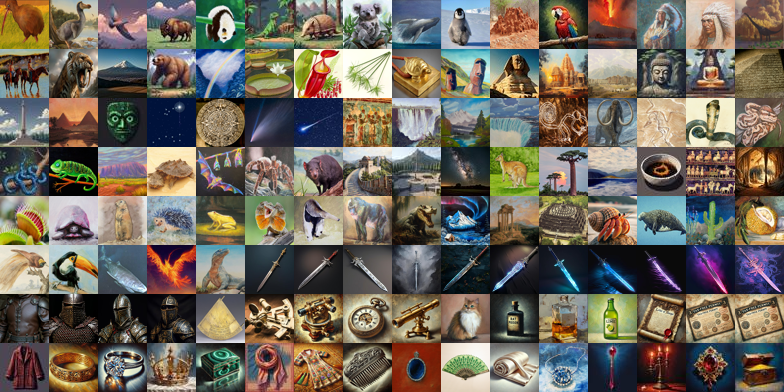
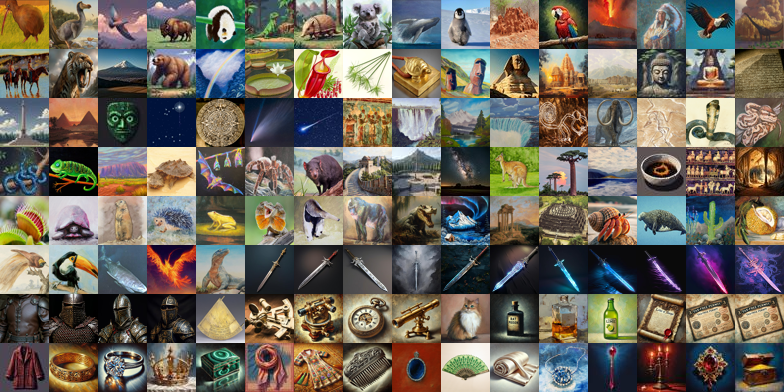
change Pteranodon to African Fish Eagle OK

Changed region(s): [[0.8571, 0.0, 0.949, 0.1224]]

diff --git a/data/tiled/xxx.tsx b/data/tiled/xxx.tsx
@@ -1,0 +1,2 @@
+<?xml version="1.0" encoding="UTF-8"?>
+<tileset version="1.10" tiledversion="1.11.0" name="xxx" tilewidth="1" tileheight="1" tilecount="0" columns="0"/>
